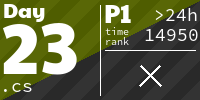
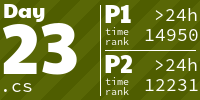
Add solution for part2 day23

diff --git a/Solutions/2023/Day23/SolverPart2.cs b/Solutions/2023/Day23/SolverPart2.cs
@@ -4,7 +4,7 @@ namespace Day23
 {
     internal class SolverPart2
     {
-        internal int GetSolution(string inputPath)
+        internal long GetSolution(string inputPath)
         {
             string[] lines = File.ReadAllLines(inputPath);
 
@@ -19,48 +19,148 @@ namespace Day23
             var start = (0, 1);
             var end = (grid.NumberOfRows - 1, grid.NumberOfColumns - 2);
 
-            var stack = new Stack<((int row, int column) coordinate, HashSet<(int row, int column)> path)>();
-            HashSet<HashSet<(int row, int column)>> paths = new HashSet<HashSet<(int row, int column)>>();
-            stack.Push((start, new HashSet<(int row, int column)>()));
+            var intersections = GetIntersections(grid);
+            intersections.Add(start);
+            intersections.Add(end);
 
-            Dictionary<(int row, int column), int> memo = [];
-            var result = 0;
-            var stackSize = 0;
+            Dictionary<(int row, int column), Dictionary<(int row, int column), int>> distances = [];
+            foreach (var intersection in intersections)
+            {
+                var distance = BreadthFirstSearch(grid, intersection, intersections);
+                distances.Add(intersection, distance);
+                Console.Write($"{intersection}: ");
+                foreach (var d in distance)
+                {
+                    Console.Write($" {d.Key}: {d.Value}");
+                }
+                Console.WriteLine();
+
+            }
+
+            return DepthFirstSearch(distances, start, end);
+        }
+
+        private static long DepthFirstSearch(Dictionary<(int row, int column), Dictionary<(int row, int column), int>> graph, (int row, int column) start, (int row, int column) end)
+        {
+            long maxDistance = 0;
+            var stack = new Stack<((int row, int column) coordinate, int distance, HashSet<(int row, int column)> visited)>();
+            var initVisit = new HashSet<(int row, int column)>
+            {
+                start
+            };
+            stack.Push((start, 0, initVisit));
 
             while (stack.Count > 0)
             {
-                var (coordinate, path) = stack.Pop();
+                var (coordinate, distance, visited) = stack.Pop();
+
+                //Console.WriteLine($"Coordinate: {coordinate} \t Distance: {distance} \t Visited: {visited.Count}");
 
                 if (coordinate == end)
                 {
-                    if (!paths.Contains(path))
-                    {
-                        result = Math.Max(result, path.Count);
-                        paths.Add(path);
-                        Console.WriteLine($"Path found with length: {path.Count}. Result so far {result}");
-                    }
+                    maxDistance = Math.Max(maxDistance, distance);
+                    Console.WriteLine($"Found path with distance: {distance}. Max distance {maxDistance}");
                     continue;
                 }
-                foreach (var direction in Enum.GetValues<Direction>())
+
+                foreach (var neighbor in graph[coordinate])
                 {
-                    var next = grid.GetNextPoint(coordinate, direction);
-                    if (!grid.IsInGrid(next) || grid.Get(next) == '#' || path.Contains(next))
+                    if (visited.Contains(neighbor.Key))
                     {
                         continue;
                     }
-                    var updatedPath = new HashSet<(int row, int column)>(path);
-                    updatedPath.Add(next);
-                    stack.Push((next, updatedPath));
-                }
 
-                if (stack.Count != stackSize)
-                {
-                    stackSize = stack.Count;
-                    Console.WriteLine($"Stack size: {stack.Count}");
+                    var newDistance = distance + neighbor.Value;
+                    var newVisited = new HashSet<(int row, int column)>(visited)
+                    {
+                        neighbor.Key
+                    };
+                    stack.Push((neighbor.Key, newDistance, newVisited));
+
+                    //Console.Write($"Neighbor: {neighbor.Key} \t Distance: {neighbor.Value} \t newDistance {newDistance}");
+                    //foreach (var v in newVisited)
+                    //{
+                    //    Console.Write($" {v}");
+                    //}
+                    //Console.WriteLine();
                 }
             }
 
-            return paths.Max(p => p.Count);
+            return maxDistance;
+        }
+
+        private static Dictionary<(int row, int column), int> BreadthFirstSearch(Grid grid, (int row, int column) start, List<(int row, int column)> intersections)
+        {
+            var queue = new Queue<((int row, int column), int distance)>();
+            var visited = new HashSet<(int row, int column)>();
+            var distances = new Dictionary<(int row, int column), int>();
+
+            queue.Enqueue((start, 0));
+
+            while (queue.Count > 0)
+            {
+                var (coordinate, distance) = queue.Dequeue();
+
+                if (intersections.Contains(coordinate) && coordinate != start)
+                {
+                    distances.Add(coordinate, distance);
+                    continue;
+                }
+
+                var nextDistance = distance + 1;
+                foreach (var direction in Enum.GetValues<Direction>())
+                {
+                    var next = grid.GetNextPoint(coordinate, direction);
+
+                    if (!grid.IsInGrid(next) || grid.Get(next) == '#' || visited.Contains(next))
+                    {
+                        continue;
+                    }
+
+                    visited.Add(next);
+                    queue.Enqueue((next, nextDistance));
+                }
+            }
+
+            return distances;
+        }
+
+        private static List<(int, int)> GetIntersections(Grid grid)
+        {
+            // Find all tiles that have more than 2 neighbors
+            var intersections = new List<(int, int)>();
+
+            for (int row = 0; row < grid.NumberOfRows - 1; row++)
+            {
+                for (int col = 0; col < grid.NumberOfColumns - 1; col++)
+                {
+                    if (grid.Get((row, col)) == '#')
+                    {
+                        continue;
+                    }
+
+                    int neighbors = 0;
+
+                    foreach (var direction in Enum.GetValues<Direction>())
+                    {
+                        var next = grid.GetNextPoint((row, col), direction);
+
+                        if (!grid.IsInGrid(next) || grid.Get(next) == '#')
+                        {
+                            continue;
+                        }
+
+                        neighbors++;
+                    }
+
+                    if (neighbors > 2)
+                    {
+                        intersections.Add((row, col));
+                    }
+                }
+            }
+
+            return intersections;
         }
     }
 }

diff --git a/Solutions/2023/Day23/Program.cs b/Solutions/2023/Day23/Program.cs
@@ -5,6 +5,6 @@ var watch = Stopwatch.StartNew();
 
 var solver = new SolverPart2();
 
-Console.WriteLine($"Solution: {solver.GetSolution("example.txt")}");
+//Console.WriteLine($"Solution: {solver.GetSolution("example.txt")}");
 Console.WriteLine($"Solution: {solver.GetSolution("input.txt")}");
 Console.WriteLine($"Elapsed: {watch.ElapsedMilliseconds}ms");

diff --git a/Solutions/2023/Day23/inputintersections.md b/Solutions/2023/Day23/inputintersections.md
@@ -1,0 +1,15 @@
+```mermaid
+graph LR
+0,1 --> |15| 5,3
+5,3 --> |22| 13,5
+5,3 --> |22| 3,11
+3,11 --> |24| 13,13
+3,11 --> |30| 11,21
+11,21 --> |10| 19,19
+13,5 --> |12| 13,13
+13,5 --> |38| 19,13
+13,13 --> |10| 19,13
+13,13 --> |18| 11,21
+19,13 --> |10| 19,19
+19,19 --> |5| 22,21
+```

diff --git a/README.md b/README.md
@@ -10,7 +10,7 @@ Data is stored in a private repository and can be loaded via
 
 <!-- AOC TILES BEGIN -->
 <h1 align="center">
-  2023 - 45 ⭐
+  2023 - 46 ⭐
 </h1>
 <a href="ProjectTemplate/SolverPart1.cs">
   <img src=".aoc_tiles/tiles/2023/01.png" width="161px">
